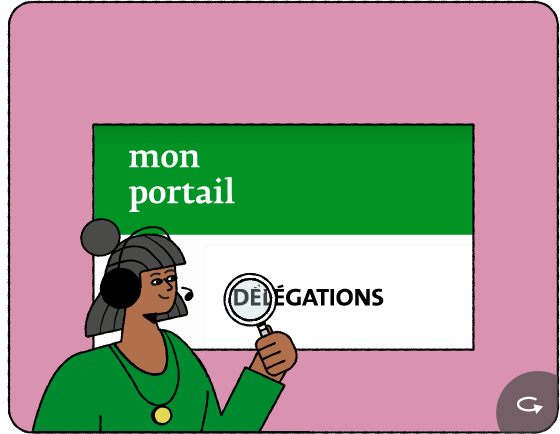
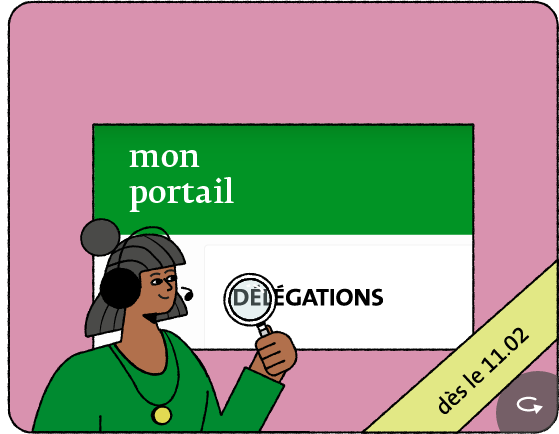
updated h-card-1 images

diff --git a/va-espace-client/src/components/flip-card/FlipCard.css b/va-espace-client/src/components/flip-card/FlipCard.css
@@ -9,8 +9,15 @@
   padding-bottom: clamp(4rem, 2vw, 8rem);
 }
 
+/* 🔽 Smaller screens */
+/* @media (max-width: 1300px) {
+  .card-title {
+    padding-bottom: clamp(2rem, 1.5vw, 4rem);
+  }
+} */
+
 .card-title-h {
-  padding-bottom: 0;
+  padding-bottom: 0 !important;
 }
 
 .card-subtitle {
@@ -40,7 +47,7 @@
 
 @media (min-width: 768px) and (max-width: 1300px) {
   .card-title {
-    padding-bottom: clamp(1rem, 2vw, 3rem);
+    padding-bottom: 1.5rem;
   }
 
   .card-subtitle {
